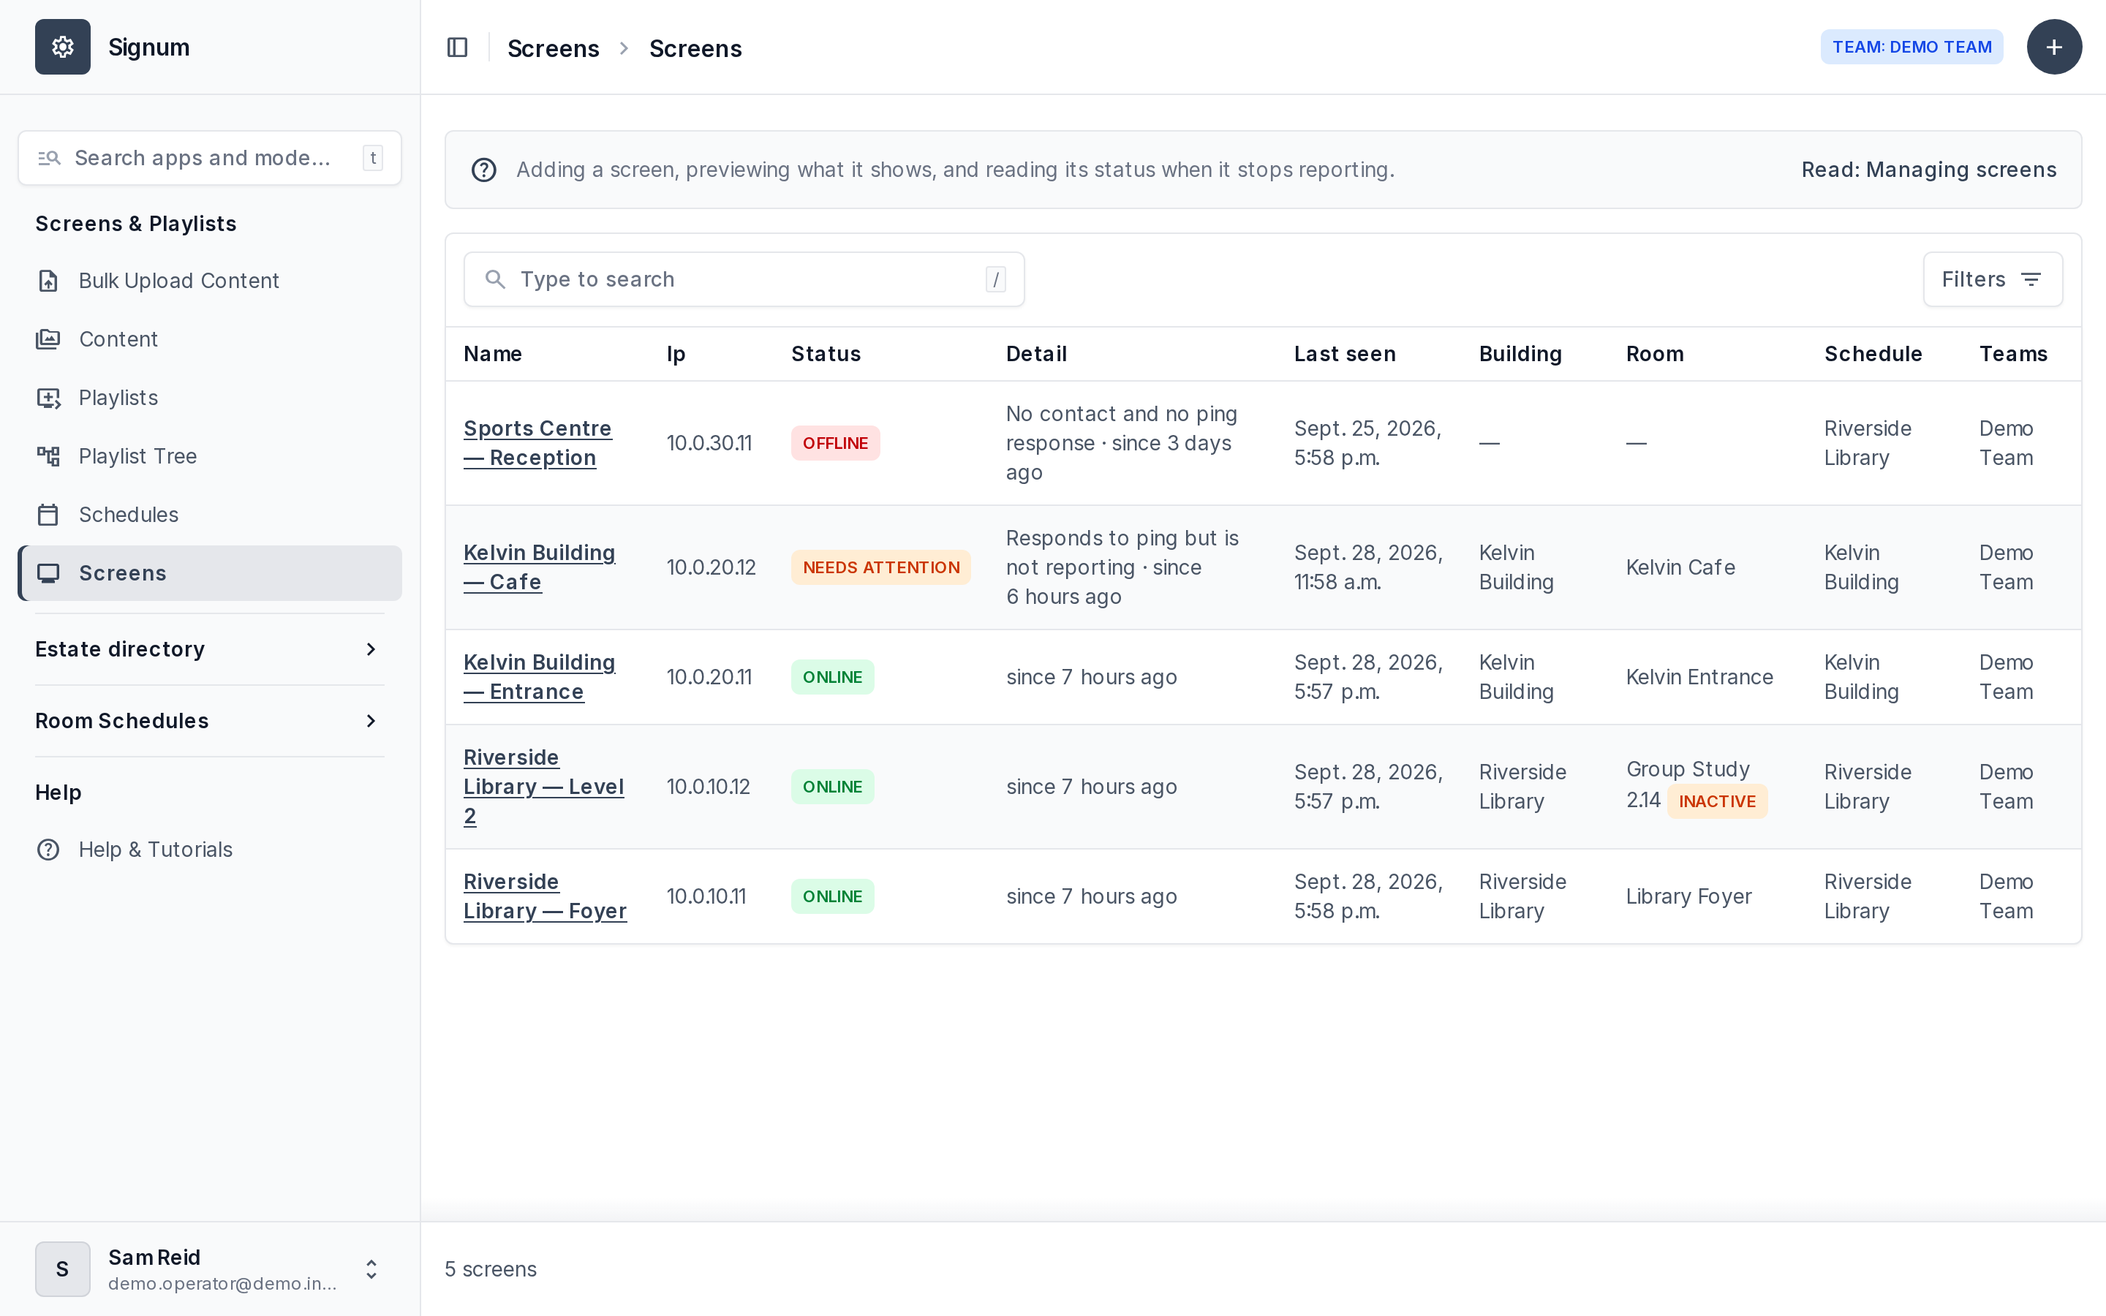
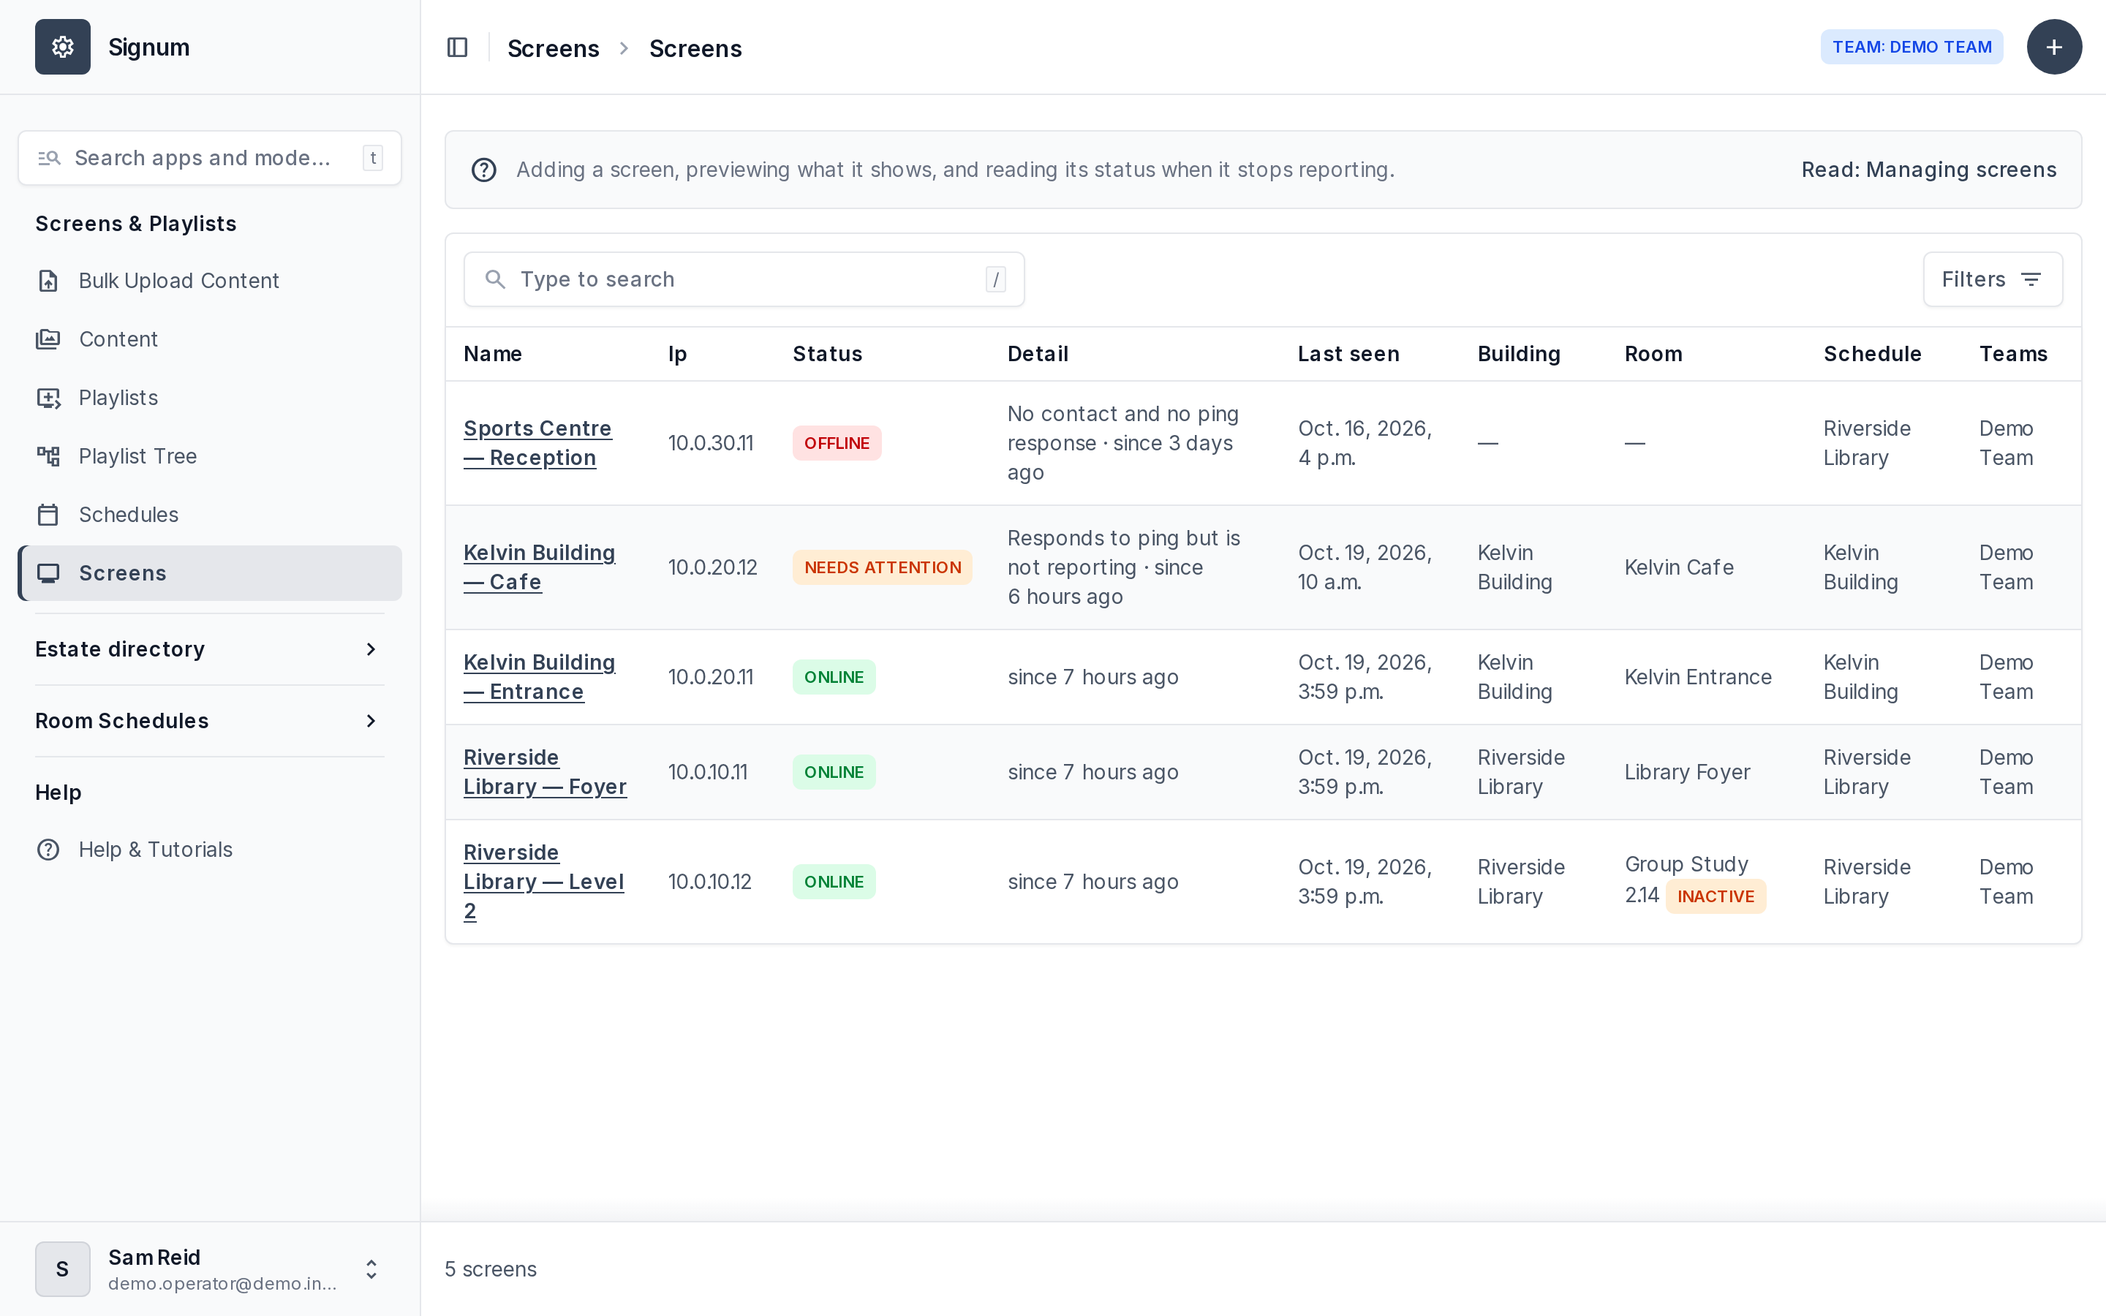
feat: Enforce unique IP addresses for screens and update documentation

diff --git a/screens/tests/test_screen_ip_unique.py b/screens/tests/test_screen_ip_unique.py
@@ -1,0 +1,107 @@
+"""Two screens may not share an IP address.
+
+A device finds its screen by address and plays whichever match the database
+returns first, so a second screen on the same IP silently takes the device
+over from the first, or is silently ignored by it.
+"""
+
+from django.contrib.auth.models import User
+from django.test import Client, TestCase
+from django.urls import reverse
+
+from estate.tests.helpers import grant_all_locations
+from estate.tests.test_estate_admin import _perms
+from screens.models import Playlist, Schedule, Screen, Team
+
+
+class ScreenIpUniqueTests(TestCase):
+    def setUp(self):
+        Team.objects.all().delete()
+        self.team = Team.objects.create(name="Alpha")
+        self.other_team = Team.objects.create(name="Beta")
+        playlist = Playlist.objects.create(name="p")
+        playlist.teams.add(self.team)
+        self.schedule = Schedule.objects.create(name="s", default_playlist=playlist)
+        self.schedule.teams.add(self.team)
+
+        self.foyer = self._screen("Foyer", "10.0.0.1", self.team)
+        self.library = self._screen("Library", "10.0.0.2", self.team)
+
+        user = User.objects.create_user('ed', 'e@x', 'pw', is_staff=True)
+        grant_all_locations(user)
+        user.teams.add(self.team)
+        user.user_permissions.add(*_perms(
+            Screen, 'view_screen', 'add_screen', 'change_screen'))
+        self.client = Client()
+        self.client.force_login(user)
+        self.client.get(reverse('admin:index'))  # initialise the active-team session
+
+    def _screen(self, name, ip, team):
+        screen = Screen.objects.create(name=name, ip=ip, schedule=self.schedule)
+        screen.teams.add(team)
+        return screen
+
+    def _fields(self, **fields):
+        return {
+            'name': 'New', 'ip': '10.0.0.99',
+            'schedule': str(self.schedule.pk),
+            'interspersed_playlist': '', 'interspersed_rate': '1',
+            **fields,
+        }
+
+    def _add(self, **fields):
+        return self.client.post(reverse('admin:screens_screen_add'),
+                                self._fields(**fields))
+
+    def _change(self, screen, **fields):
+        return self.client.post(
+            reverse('admin:screens_screen_change', args=[screen.pk]),
+            self._fields(**{'name': screen.name, 'ip': screen.ip, **fields}))
+
+    def _ip_errors(self, response):
+        self.assertEqual(response.status_code, 200)
+        return response.context['adminform'].form.errors['ip']
+
+    def test_a_new_address_saves(self):
+        """The baseline, so the refusals below are known to be about the IP."""
+        self.assertEqual(self._add().status_code, 302)
+        self.assertTrue(Screen.objects.filter(ip='10.0.0.99').exists())
+
+    def test_adding_a_screen_on_an_address_in_use_is_refused(self):
+        resp = self._add(ip='10.0.0.1')
+        self.assertEqual(self._ip_errors(resp), [
+            "The screen “Foyer” already uses this IP address. Each device "
+            "needs its own address, so correct this one, or change or delete "
+            "that screen first."])
+        self.assertEqual(Screen.objects.filter(ip='10.0.0.1').count(), 1)
+
+    def test_moving_a_screen_onto_an_address_in_use_is_refused(self):
+        resp = self._change(self.library, ip='10.0.0.1')
+        self.assertIn("“Foyer”", self._ip_errors(resp)[0])
+        self.library.refresh_from_db()
+        self.assertEqual(self.library.ip, '10.0.0.2')
+
+    def test_a_screen_keeping_its_own_address_still_saves(self):
+        resp = self._change(self.foyer, name="Main foyer")
+        self.assertEqual(resp.status_code, 302)
+        self.foyer.refresh_from_db()
+        self.assertEqual(self.foyer.name, "Main foyer")
+
+    def test_one_address_written_two_ways_is_still_a_clash(self):
+        """IPv6 is normalised on both sides, so padding does not slip past."""
+        self._screen("Atrium", "2001:db8::1", self.team)
+        resp = self._add(ip='2001:0db8:0000:0000:0000:0000:0000:0001')
+        self.assertIn("“Atrium”", self._ip_errors(resp)[0])
+
+    def test_a_clash_with_a_screen_the_user_cannot_see_is_refused_unnamed(self):
+        """Still refused -- the device does not care about teams -- but the
+        other team's screen name is not theirs to read."""
+        self._screen("Beta secret", "10.0.0.50", self.other_team)
+        resp = self._add(ip='10.0.0.50')
+        errors = self._ip_errors(resp)
+        self.assertEqual(errors, [
+            "Another screen already uses this IP address, outside your current "
+            "team or locations. Each device needs its own address — ask an "
+            "administrator to find the other screen."])
+        self.assertNotContains(resp, "Beta secret")
+        self.assertEqual(Screen.objects.filter(ip='10.0.0.50').count(), 1)

diff --git a/screens/tests/test_screen_list_filters.py b/screens/tests/test_screen_list_filters.py
@@ -183,6 +183,38 @@ class ScreenListFilterTests(TestCase):
         self.assertEqual(admin_obj.show_status(bare), admin_obj.show_status(annotated))
         self.assertIn("Responds to ping", admin_obj.show_status_detail(bare))
 
+    # --- Default ordering ----------------------------------------------------
+
+    def _mixed_statuses(self):
+        """Alongside setUp's screenAlpha (online) and screenAlphaDark (offline).
+        "Kelvin" against "aardvark" is the case trap: SQLite would put the
+        capital first."""
+        self._screen("aardvark", "10.0.0.4", self.sched_a, self.team_a, online=True)
+        self._screen("Kelvin", "10.0.0.5", self.sched_a, self.team_a, online=True)
+        self._screen("zebraDark", "10.0.0.6", self.sched_a, self.team_a, online=False)
+        amber = self._screen("Middle", "10.0.0.7", self.sched_a, self.team_a, online=False)
+        Screen.objects.filter(pk=amber.pk).update(
+            last_ping_ok=timezone.now(), last_ping_attempt=timezone.now())
+
+    def test_the_list_opens_worst_first_then_a_to_z(self):
+        self._mixed_statuses()
+        self.assertEqual(
+            [s.name for s in self._rows(self._changelist())],
+            ["screenAlphaDark", "zebraDark",          # offline
+             "Middle",                                # needs attention
+             "aardvark", "Kelvin", "screenAlpha"])    # online
+
+    def test_a_clicked_column_wins_and_name_breaks_the_tie(self):
+        """Sorting by a column replaces the default rather than being ignored,
+        and the default still orders the rows that column leaves tied."""
+        self._mixed_statuses()
+        # Column 3 is Status: 0 is the action checkbox, then name and ip.
+        self.assertEqual(
+            [s.name for s in self._rows(self._changelist(o="3"))],
+            ["aardvark", "Kelvin", "screenAlpha",
+             "Middle",
+             "screenAlphaDark", "zebraDark"])
+
     def test_a_screen_that_missed_a_few_polls_is_still_online(self):
         """One late heartbeat is jitter, not a fault worth listing."""
         Screen.objects.filter(pk=self.screen_a.pk).update(

diff --git a/screens/admin.py b/screens/admin.py
@@ -6,6 +6,7 @@ from django.conf import settings
 from django.urls import re_path
 from django.contrib import admin
 from django.core.exceptions import ValidationError
+from django.db.models.functions import Lower
 from django.template.loader import get_template
 from django.template.response import TemplateResponse
 from django.utils.timesince import timesince
@@ -699,8 +700,16 @@ class ScreenAdmin(TeamScopedAdminMixin, ModelAdmin):
         # Location-scoped on top of the mixin's team scoping. with_status() so
         # the badge, the detail column and the sort all read one annotation
         # rather than each screen recomputing its own.
-        return scope_to_locations(
-            super().get_queryset(request), request).with_status()
+        #
+        # Worst first, then A-Z, so the screens wanting someone are at the top.
+        # Here rather than in `ordering`, which the admin checks refuse for an
+        # annotation (admin.E033) -- and which ModelAdmin.get_queryset would
+        # apply before with_status() had added it. The changelist falls back to
+        # this when no column is clicked, and keeps it as the tie-break when one
+        # is. Lower() because SQLite sorts capitals first and MySQL does not.
+        return (scope_to_locations(super().get_queryset(request), request)
+                .with_status()
+                .order_by("-status_rank", Lower("name")))
 
     def formfield_for_foreignkey(self, db_field, request, **kwargs):
         if db_field.name == 'room':
@@ -722,6 +731,8 @@ class ScreenAdmin(TeamScopedAdminMixin, ModelAdmin):
 
     def get_form(self, request, obj=None, **kwargs):
         form_class = super().get_form(request, obj, **kwargs)
+        # Lazy, so it costs nothing unless an IP clash needs naming.
+        form_class.visible_screens = scope_screens(Screen.objects.all(), request)
         if 'building' in form_class.base_fields and not sees_all_locations(request):
             # Copy first, as SourceDisplay.get_form does: the declared field is
             # shared by every form class the factory builds.

diff --git a/screens/forms.py b/screens/forms.py
@@ -145,6 +145,11 @@ class ScreenAdminForm(ModelForm):
     #: be left in. None means unrestricted.
     wholly_visible_buildings = None
 
+    #: Set by ScreenAdmin.get_form: the screens this user can see, so an IP
+    #: clash names the other screen only when they could go and fix it. None
+    #: means unrestricted.
+    visible_screens = None
+
     class Meta:
         model = Screen
         fields = '__all__'
@@ -162,6 +167,28 @@ class ScreenAdminForm(ModelForm):
         # The option the page loads with; the rest come from the picker view,
         # which labels them the same way.
         room.label_from_instance = room_picker_label
+
+    def clean_ip(self):
+        ip = self.cleaned_data.get('ip')
+        # A device finds its screen by address and plays whichever match comes
+        # back first, so a second screen on the same IP silently takes over
+        # (or is ignored by) the device. Checked here only, not by the
+        # database -- see KNOWN_ISSUES.md for why there is no constraint yet.
+        # Against every screen, not just visible ones: the clash is real
+        # whichever team owns the other screen.
+        clash = Screen.objects.filter(ip=ip).exclude(pk=self.instance.pk).first()
+        if clash is None:
+            return ip
+        if (self.visible_screens is None
+                or self.visible_screens.filter(pk=clash.pk).exists()):
+            raise ValidationError(
+                f"The screen “{clash.name}” already uses this IP address. Each "
+                "device needs its own address, so correct this one, or change "
+                "or delete that screen first.")
+        raise ValidationError(
+            "Another screen already uses this IP address, outside your "
+            "current team or locations. Each device needs its own address — "
+            "ask an administrator to find the other screen.")
 
     def clean(self):
         cleaned = super().clean()

diff --git a/helpdocs/content/users/screens.md b/helpdocs/content/users/screens.md
@@ -15,7 +15,8 @@ have it, the device itself will tell you — see
    the building — *Library Entrance*, not *Screen 3*.
 3. Choose the **Schedule** it should follow. See
    [Scheduling what plays when](help:schedules).
-4. Enter the **IP** address of the device.
+4. Enter the **IP** address of the device. Each address can belong to only one
+   screen — see [One address, one screen](#one-address-one-screen).
 5. Optionally set an **Interspersed playlist** and **rate** — a playlist mixed
    into whatever this screen is showing, whichever playlist that is. See
    [Interspersed content](help:playlists).
@@ -33,6 +34,32 @@ should show as online.
     and begin its playlist again from the first item. It takes a couple of
     seconds and nothing is lost, but don't be surprised if you're watching the
     display while you edit it.
+{% endif %}
+
+{% if perms.screens.add_screen or perms.screens.change_screen %}
+## One address, one screen
+
+A display finds its own screen record by its IP address. If two screens shared
+an address, the display would play whichever one the system found first, and
+the other would never show anything. So saving a screen on an address another
+screen already uses is refused, with a message on the **IP** field:
+
+- **The screen "…" already uses this IP address** — the other screen is one you
+  can see. Usually either:
+    - it is an older record for the same display, so edit that one instead, or
+      delete it if it is no longer wanted; or
+    - that display's address has changed and this one has been given its old
+      address. Read the other display's new address off it and correct that
+      screen first.
+- **Another screen already uses this IP address, outside your current team or
+  locations** — the other screen exists, but you can't see it. If you belong to
+  more than one team, switch team and look again; otherwise ask an
+  administrator to find it.
+
+!!! warning "Screens that already share an address"
+    If two screens already share an address, neither can be saved — not even
+    to rename it — until one of them is given a different address or deleted.
+    Search the **Screens** list for the address to find both.
 {% endif %}
 
 ## Getting the address off the device
@@ -126,8 +153,12 @@ walking to the display.
 
 ## Finding screens
 
-On the **Screens** list you can search by **name, IP address, room or building**,
-and filter by:
+The **Screens** list opens with the screens that need someone at the top:
+**Offline** first, then **Needs attention**, then **Online**, and A to Z by name
+within each. Click a column heading to sort by that instead; screens that tie on
+it keep the same status-then-name order.
+
+You can search by **name, IP address, room or building**, and filter by:
 
 - **Schedule** — useful for checking which displays are affected before you
   change a schedule. Only schedules actually in use by screens you can see are

diff --git a/KNOWN_ISSUES.md b/KNOWN_ISSUES.md
@@ -495,3 +495,47 @@ under the same "only if created in this run" rule.
 `ENTRA_DEFAULT_TEAM_NAME` set now create users who see content but no screens until assigned
 location access. Documented in the help pages; adding the setting follows the three-place rule
 in `CLAUDE.md` plus the deploy repo.
+
+---
+
+## 11. Screen IPs are unique by form validation only, not by the database
+
+Found 2026-10-19, after an operator added a second screen on an IP another screen already had.
+`get_screen` (`screens/views.py`) finds a device's screen with `.filter(ip=ip).first()`, so of
+two screens on one address the device plays whichever the database returns first and the
+other is dead.
+
+**What is fixed.** `ScreenAdminForm.clean_ip` refuses a clash on add and on edit, naming the
+other screen only if it is in `scope_screens` for that request. Covered by
+`screens/tests/test_screen_ip_unique.py`. The admin is the only path where a person types an IP,
+so this closes the route the incident took.
+
+**What is not.** Nothing below the form stops a duplicate:
+
+- `get_screen`'s auto-create, with `AUTO_MAKE_SCREENS_FOR_NEW_IPS=True` (default `False`), is
+  check-then-create. Two near-simultaneous first requests from a new device can both create.
+- The shell, fixtures and `helpdocs/demo_data.py` all use `objects.create`, which never validates.
+
+**Why there is no `unique=True` yet.** The deploy container runs
+`python manage.py migrate && uwsgi` (`docker/advertising/Dockerfile` in the deploy repo), so a
+migration that fails on existing duplicates stops uwsgi starting: the whole site goes down, not
+just the migration. Production may still hold duplicates from before this change.
+
+**Fix, in order.**
+
+1. Check production, and resolve every pair by hand — which screen is right is an operator
+   call, so do not write a migration that picks one:
+   ```bash
+   docker compose exec advertising python manage.py shell -c \
+     "from django.db.models import Count; from screens.models import Screen; \
+      print(list(Screen.objects.values('ip').annotate(n=Count('id')).filter(n__gt=1)))"
+   ```
+2. `unique=True` on `Screen.ip`, then `makemigrations`. Put a `RunPython` before the `AlterField`
+   that raises naming the duplicate screens, so a missed one reads clearly in
+   `docker compose logs advertising` rather than as a bare `IntegrityError`. It still takes the
+   site down, so step 1 is not optional.
+3. Change `get_screen` to `get_or_create(ip=ip, defaults=...)`, which re-reads on
+   `IntegrityError` instead of returning a 500 to the losing request.
+4. Keep `clean_ip`. With it raising, the field is excluded from the model form's
+   `validate_unique`, so there is no second, generic "Screen with this Ip already exists."
+   message — and the generic one could not tell the user whether they can see the other screen.

diff --git a/helpdocs/content/technical/device-commissioning.md b/helpdocs/content/technical/device-commissioning.md
@@ -33,7 +33,9 @@ The message on that page is
    off the device.
 3. Save.
 
-Full detail in [Managing screens](help:users/screens).
+Full detail in [Managing screens](help:users/screens). The form refuses an IP
+that another screen already has, since the device would only ever play one of
+them.
 
 ## Step 2b: register a room display
 
